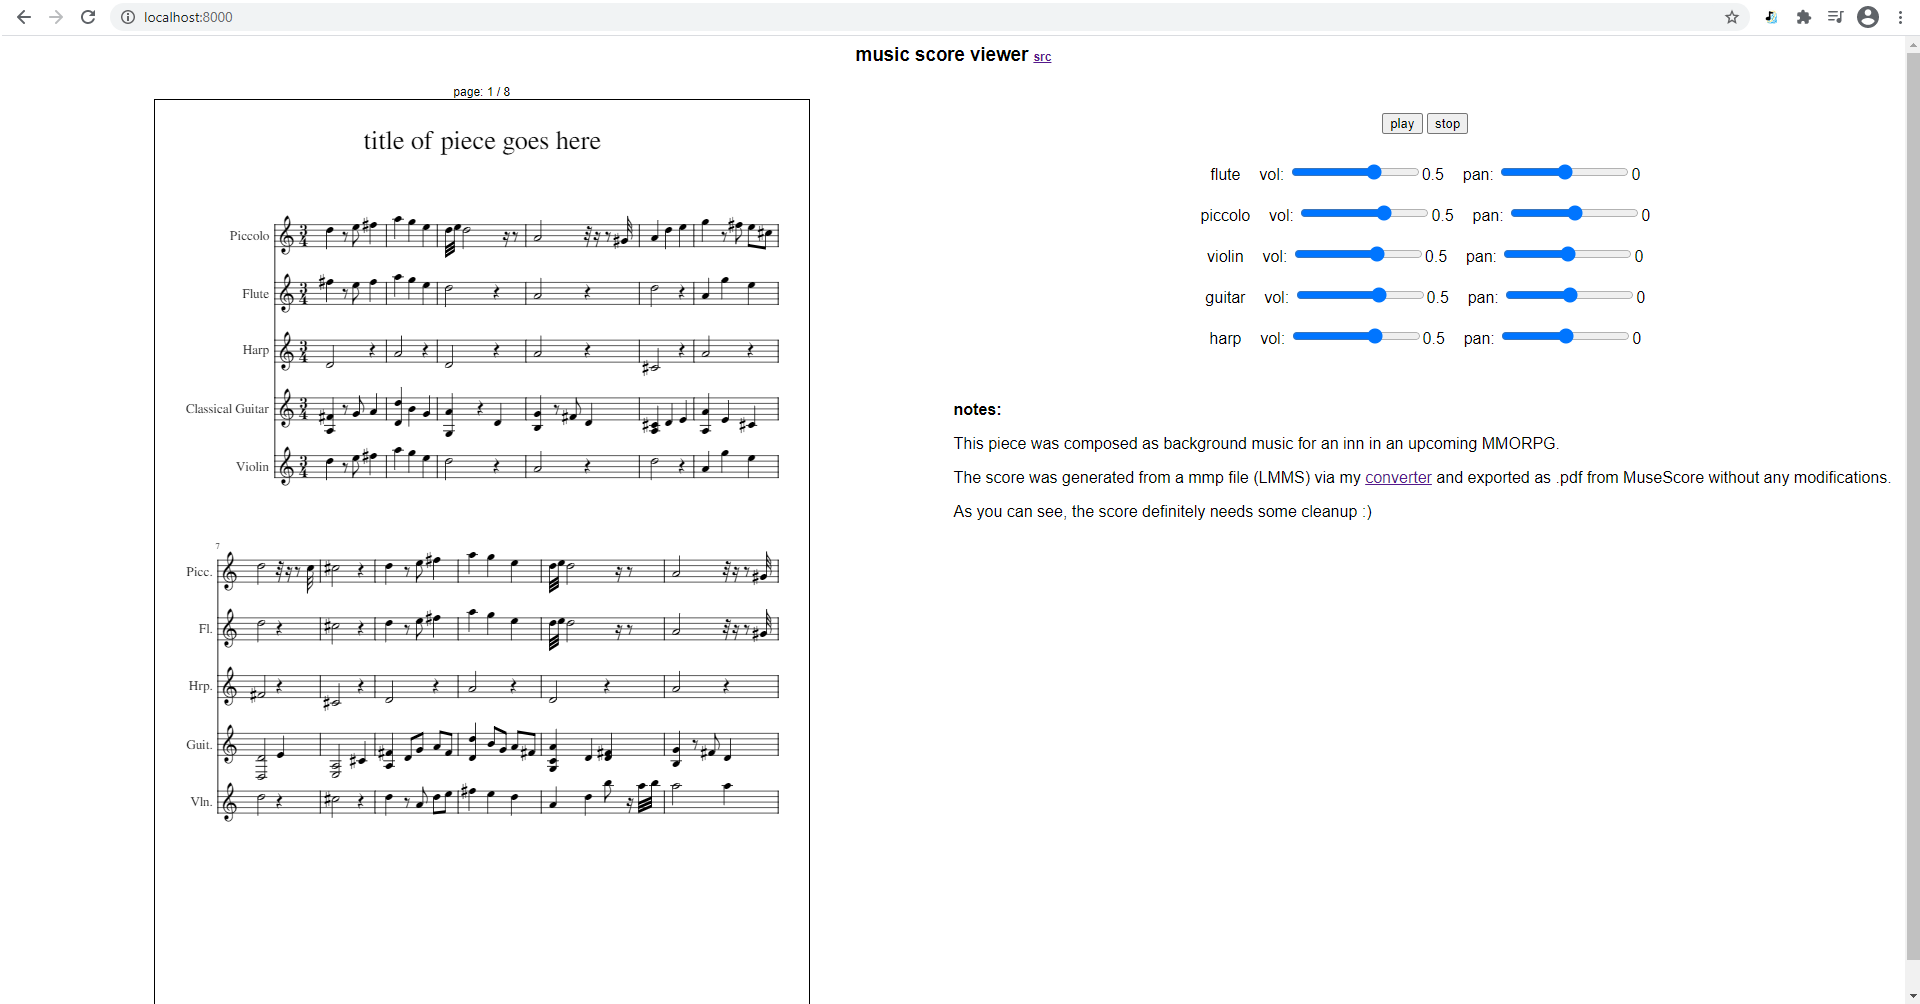
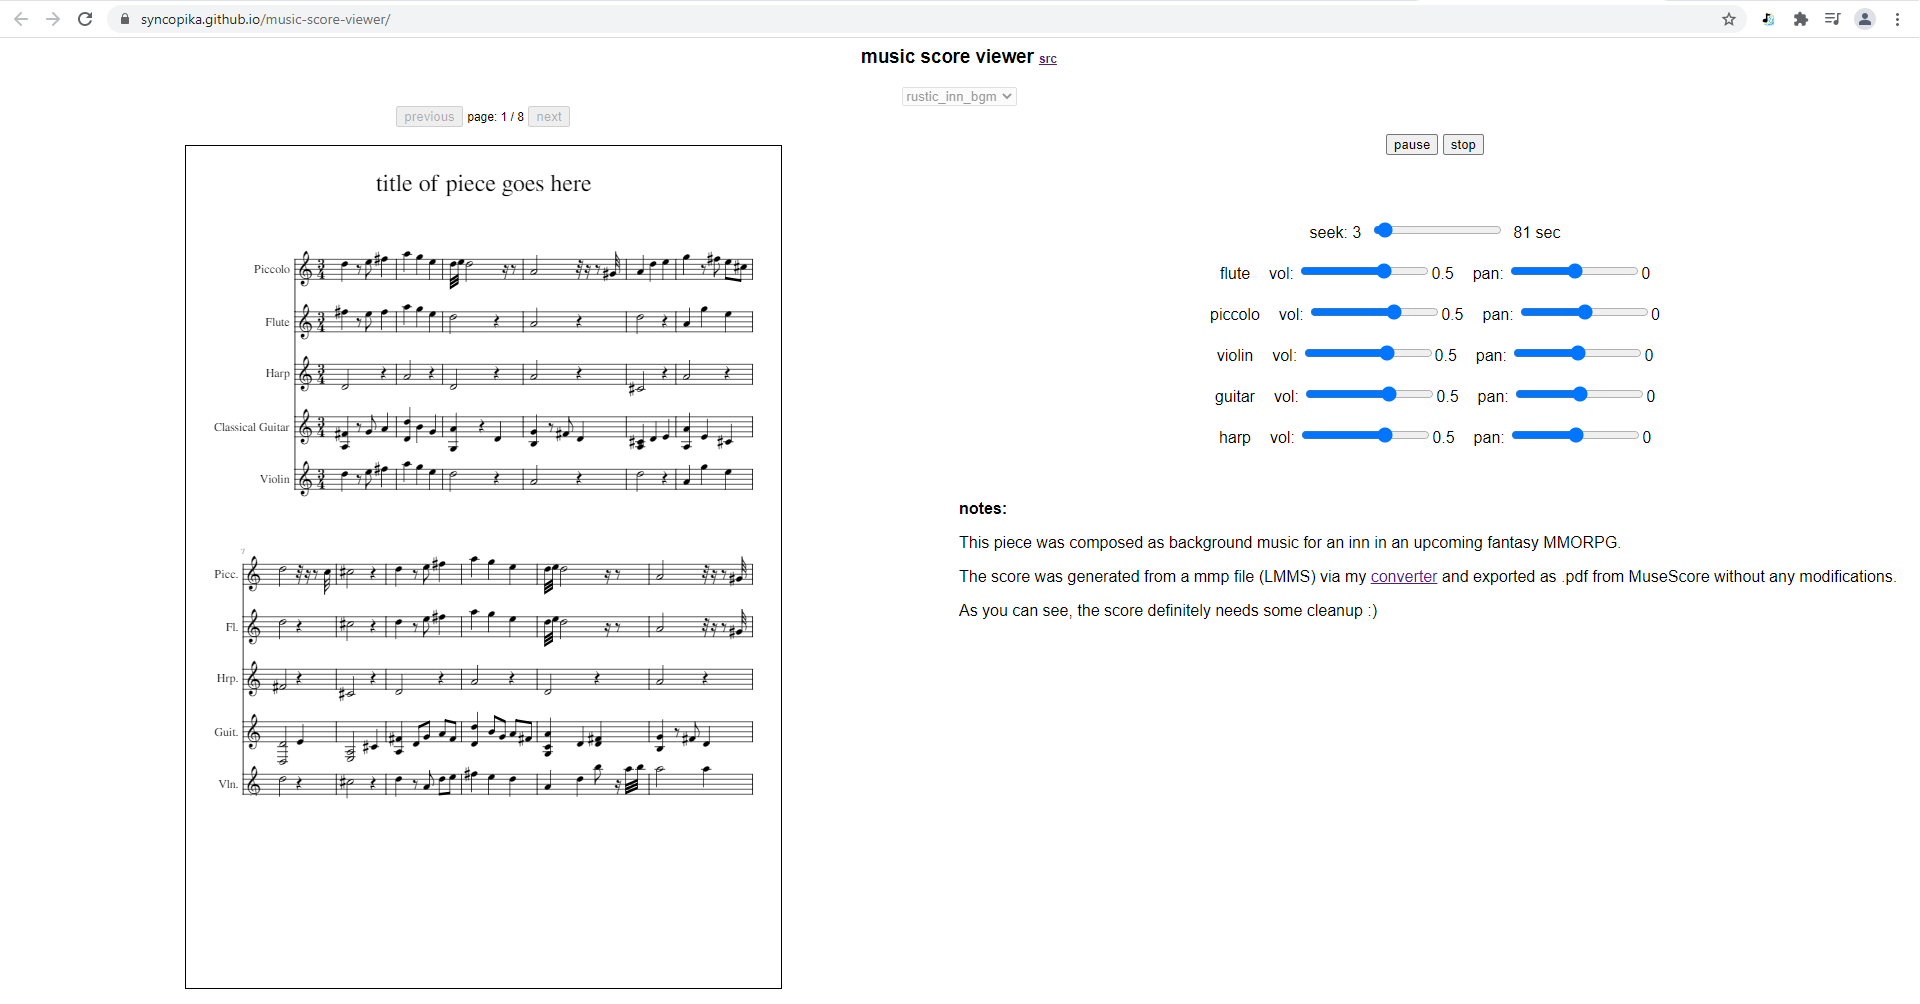
small refactor and edits

diff --git a/index.html b/index.html
@@ -243,13 +243,12 @@
 		const cancelAnimFrame = window.cancelAnimationFrame;
 		let reqId;
 		let lastTime;
-		let currTimeDiff = 0;
 		let currPage = 1;
 		
 		function step(timestamp){
 			// we don't care about the timestamp requestAnimationFrame uses
 			// since we'll rely on audioContext's timer instead
-			const diff = audioContext.currentTime - lastTime;
+			const diff = audioContext.currentTime - lastTime; // updating audioManager's seekTime is dependent on this
 			const seekSlider = document.getElementById("playbackSeekSlider");
 			seekSlider.value = diff;
 			seekSlider.dispatchEvent(new InputEvent('input')); // trigger event so label will get updated
@@ -262,7 +261,7 @@
 					// we're at the last page. stop the cycle.
 					//console.log("reached the end of the score");
 					cancelAnimFrame(reqId);
-					currTimeDiff = 0;
+					audioManager.seekTime = 0;
 					currPage = 1;
 					
 					prevPageButton.disabled = false;
@@ -287,10 +286,7 @@
 				nextPageButton.disabled = true;
 				optionSelect.disabled = true;
 				
-				if(currTimeDiff){
-				
-					// TODO: use seekTime stored in audioManager (which should correspond with the seek slider)
-					// to figure out the page it should be on using the timeMarkers variable
+				if(audioManager.seekTime > 0){
 					const pageToBeOn = findScorePage(audioManager.seekTime, timeMarkers);
 				
 					if(pageToBeOn !== pageNum){
@@ -298,9 +294,10 @@
 						// if they play again, we need to move the page back to where they paused
 						queueRenderPage(pageToBeOn);
 						currPage = pageToBeOn;
-						console.log("need to be on page: " + pageToBeOn);
+						pageNum = currPage;
+						//console.log("need to be on page: " + pageToBeOn);
 					}
-					lastTime = audioContext.currentTime - audioManager.seekTime;//currTimeDiff;
+					lastTime = audioContext.currentTime - audioManager.seekTime;
 				}else{
 					// starting from the beginning
 					currPage = 1;
@@ -319,9 +316,6 @@
 				prevPageButton.disabled = false;
 				nextPageButton.disabled = false;
 				optionSelect.disabled = false;
-				
-				// get curr time diff
-				currTimeDiff = audioContext.currentTime - lastTime;
 			}
 		}, false);
 		
@@ -329,10 +323,8 @@
 		stopButton.addEventListener("click", function(evt){
 			// stop playing and rewind audio to the beginning
 			cancelAnimFrame(reqId);
-			currTimeDiff = 0;
 			currPage = 1;
 			audioManager.stop();
-			audioManager.seekTime = 0;
 			
 			prevPageButton.disabled = false;
 			nextPageButton.disabled = false;

diff --git a/AudioManager.js b/AudioManager.js
@@ -110,6 +110,7 @@ class AudioManager {
 			this.instruments[instrument].audioElement.currentTime = 0;
 			this.instruments[instrument].audioElement.dispatchEvent(new Event("ended"));
 		}
+		this.seekTime = 0;
 	}
 	
 	reset(){

diff --git a/README.md b/README.md
@@ -6,10 +6,8 @@ This application serves as a way for me to share my music scores from MuseScore.
     
 I was inspired to make this after reaching my free limit on MuseScore and wanted a way to continue sharing my work. Although this isn't as nice as whatever MuseScore offers, I think it's an interesting substitute. One neat feature is that you can change the volume and panning of individual instrument parts. However, there is no score highlighting and the user (i.e. me) is responsible for providing the audio data for whatever instrument parts they want to display, as well as determining when the score pages should be turned.    
     
-Please note that if, on the initial page load you experience hearing the instruments out of sync, stopping and pressing play again or refreshing the page should stop that. I'm currently trying to figure out why that is.    
-    
 ### dependencies:    
 pdf.js (https://mozilla.github.io/pdf.js/)    
     
 ### running locally:    
-Run `python -m http.server` from this directory and go to `localhost:8000`.    
+Run `python -m http.server` from this directory and go to `localhost:8000`. Please note that there might be issues with seeking when using with Chrome and Edge (see this [super helpful post](https://stackoverflow.com/questions/9563887/setting-html5-audio-position). Firefox seems to handle it well though.    
